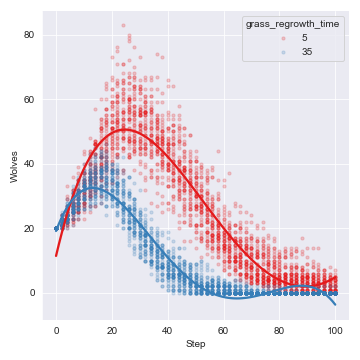
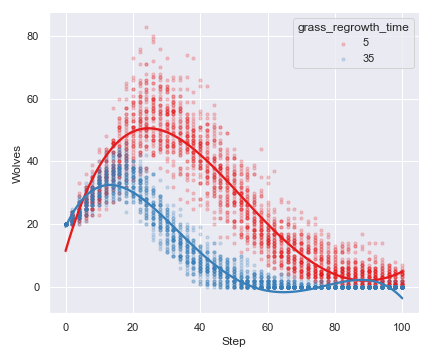
modify visualization
improve vis part
add single run

diff --git a/assignment3/visualize.py b/assignment3/visualize.py
@@ -2,9 +2,20 @@
 import matplotlib.pyplot as plt
 import pandas as pd
 import seaborn as sns
+from PIL import Image
 import os
 import gc
 sns.set_style("darkgrid")
+
+# get single run data
+df_original_single = pd.read_csv('data/original_single.csv') # original model
+df_updated_single = pd.read_csv('data/updated_single.csv') # intelligent model
+
+df_original_single['agent_type'] = 'original'
+df_updated_single['agent_type'] = 'updated'
+
+df_single = pd.concat([df_original_single, df_updated_single], axis=0)
+
 
 # get buatch run data
 df_original = pd.read_csv('data/original.csv') # original model
@@ -16,6 +27,21 @@ df_updated['agent_type'] = 'updated'
 # merge two dataset
 df = pd.concat([df_original, df_updated], axis=0)
 
+# generate relative pop variable
+df['relative_pop'] = df['initial_sheep'] / df['initial_wolves']
+
+# categorize relative pop
+def func_cate(x):
+    if  x <= 5:
+        return 'less_sheep'
+    elif x > 5 and x <= 10:
+        return 'moderate'
+    elif x > 10 :
+        return 'more_sheep'
+
+df['relative_sheep'] = df['relative_pop'].apply(func_cate)
+
+
 # delete two df for save memory
 del [[df_original, df_updated]]
 gc.collect()
@@ -23,26 +49,38 @@ gc.collect()
 # plotting
 agents = ['Sheep', 'Wolves', 'Grass']
 
-def group_plot(by ,var):
+def group_plot(df, by ,var, i):
     df_mean = df.groupby([by,'Step']).mean().reset_index()
-    sns.lineplot(df_mean, x = 'Step', y = var, hue = by)
+    sns.lineplot(df_mean, x = 'Step', y = var, hue = by, ax = axs[i])
+    
+# plot single run result -------------------------------------------------------
+fig, axs = plt.subplots(1,3,figsize=(12,6))
+
+for agent, i in zip(agents, range(0,3)):
+    group_plot(df_single, by='agent_type', var = agent, i = i)
+    
+plt.savefig('plots/single.png')
 
 
 # 1.evaluation of the modification we made in assignment2 ----------------------
 ## 1.1 the activaion is matter?
 
 # quick check, activation does not matter
-for v in agents:
-    group_plot(by='step_by_type', var = v)
-    plt.savefig(f'plots/step_by_type_{v}.png')
-    plt.close()
+fig, axs = plt.subplots(1,3,figsize=(12,6))
+
+for agent, i in zip(agents, range(0,3)):
+    group_plot(df, by='step_by_type', var = agent, i = i)
+    
+plt.savefig('plots/step_by_type.png')
 
 ## 1.2 the rule change is matter?
 #  changing agent rule has some impact on the pass
-for v in agents:
-    group_plot(by='agent_type', var = v)
-    plt.savefig(f'plots/agent_type_{v}.png')
-    plt.close()
+fig, axs = plt.subplots(1,3,figsize=(12,6))
+
+for v, i  in zip(agents, range(0,3)):
+    group_plot(df, by='agent_type', var = v, i = i)
+
+plt.savefig('plots/agent_type.png')
 
 # 2. vary the initial setting -----------------------------
 # vary the density and relative population of wolf and sheep
@@ -81,6 +119,27 @@ plt.savefig('plots/distribution_Sheep')
 # if there are more wolves, sheep tend to extinct early
 # the initial number of sheep does not matter
 
+## 2.3 check relative size effect
+
+fig, axs = plt.subplots(1,2,figsize=(13,6))
+
+df_10step = df[(df['Step'] == 10) &
+               (df['agent_type'] == 'updated') &
+               (df['initial_sheep'] == 150)
+               ]
+sns.kdeplot(df_10step, x='Sheep', hue='initial_wolves', palette= 'Set2', ax=axs[0])
+
+df_10step = df[(df['Step'] == 10) &
+               (df['agent_type'] == 'updated') &
+               (df['initial_wolves'] == 20)
+               ]
+
+sns.kdeplot(df_10step, x='Wolves', hue='initial_sheep', palette= 'Set2', ax=axs[1])
+
+axs[0].set(xlabel='Sheep (initial = 150)')
+axs[1].set(xlabel='Wolves (initial = 20)')
+
+plt.savefig('plots/distribution_fix.png')
 
 # how the climate shock affect the path of each agent ----------------------------------
 # choose base line case
@@ -98,23 +157,53 @@ sns.lmplot(data=temp, x='Step', y='Wolves', hue = 'grass_regrowth_time',
            palette = 'Set1',
            legend_out = False,
            order=4,
+           height=5,
+           aspect=1.2,
            scatter_kws={"s": 10, 'alpha':0.2})
-plt.savefig('plots/climate_effect_wolves')
+plt.savefig('plots/climate_effect_wolves.png')
 
 # the sheep paths are similar
 sns.lmplot(data=temp, x='Step', y='Sheep', hue = 'grass_regrowth_time',
            palette = 'Set1',
            legend_out = False,
            order=4,
+           height=5,
+           aspect=1.2,
            scatter_kws={"s": 10, 'alpha':0.2})
-plt.savefig('plots/climate_effect_Sheep')
+plt.savefig('plots/climate_effect_Sheep.png')
 
 # the Grass path
 sns.lmplot(data=temp, x='Step', y='Grass', hue = 'grass_regrowth_time',
            palette = 'Set1',
            legend_out = False,
            order=4,
+           height=5,
+           aspect=1.2,
            scatter_kws={"s": 10, 'alpha':0.2})
-plt.savefig('plots/climate_effect_Grass')
+plt.savefig('plots/climate_effect_Grass.png')
+
 
 # wolf paths are more likely to be affected by the climate change. it is interesting result
+
+# combine png
+def get_concat_h(im1, im2):
+    dst = Image.new('RGB', (im1.width + im2.width, im1.height))
+    dst.paste(im1, (0, 0))
+    dst.paste(im2, (im1.width, 0))
+    return dst
+
+im1 = Image.open('plots/climate_effect_Sheep.png')
+im2 = Image.open('plots/climate_effect_wolves.png')
+
+get_concat_h(im1, im2).save('plots/climate_effect.png')
+
+def get_concat_v(im1, im2):
+    dst = Image.new('RGB', (im1.width, im1.height + im2.height))
+    dst.paste(im1, (0, 0))
+    dst.paste(im2, (0, im1.height))
+    return dst
+
+im1 = Image.open('plots/distribution_Sheep.png')
+im2 = Image.open('plots/distribution_wolves.png')
+
+get_concat_v(im1, im2).save('plots/distribution.png')

diff --git a/assignment3/single_run.py b/assignment3/single_run.py
@@ -1,0 +1,37 @@
+
+
+import itertools
+
+import mesa
+import numpy as np
+import pandas as pd
+import random
+
+# parameter lists for each parameter to be tested in batch run
+def run(save_to):
+    br_params = {"step_by_type": True,
+                 "grass": True,
+                 "grass_regrowth_time" : 20,
+                 "initial_sheep" : 150,
+                 "initial_wolves" : 20
+                 }
+    
+    if __name__ == "__main__":
+        data = mesa.batch_run(
+            WolfSheep,
+            br_params,
+            max_steps = 100,
+            data_collection_period = 1, 
+            iterations = 1
+        )
+        br_df = pd.DataFrame(data)
+        br_df.to_csv(save_to)
+
+
+# batch_run with original model
+from wolf_sheep_original.model import WolfSheep
+run(save_to = "data/original_single.csv")
+
+# batch_run with intelligent model
+from wolf_sheep.model import WolfSheep
+run(save_to = "data/updated_single.csv")
